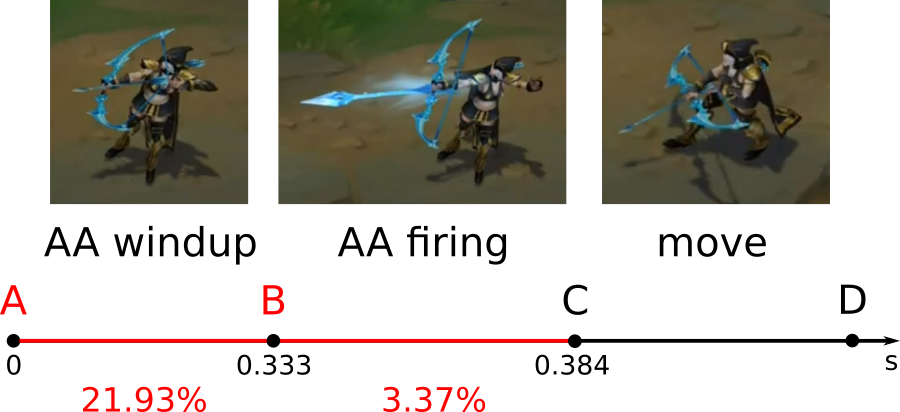
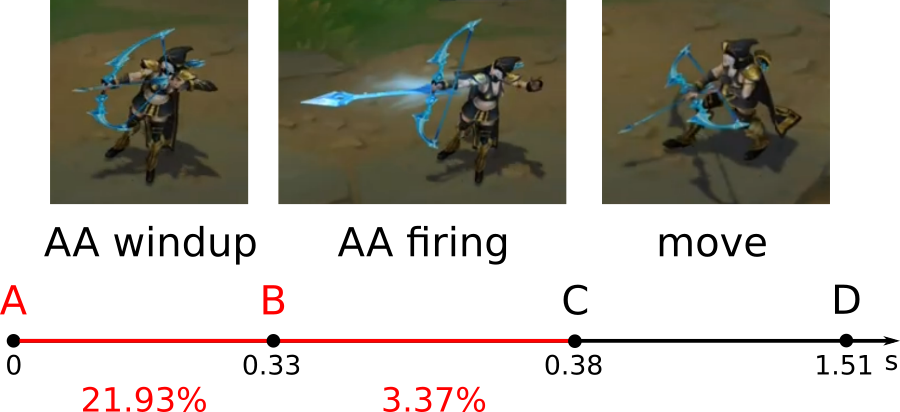
Fix rounding off numbers in the "Micromanagement" chapter

diff --git a/manuscript/Micromanagement/attack-animation.md b/manuscript/Micromanagement/attack-animation.md
@@ -119,14 +119,14 @@
 
 Техника отмены анимации recovery командой движения называется **attack move** (атака и движение). Её хорошо объясняет [видео на канале Skill Capped](https://www.youtube.com/watch?app=desktop&v=-oyxOgtT33U).
 
-Пусть игрок отменяет анимацию атаки командной движения. Рассмотрим, как в этом случае поменяет временная диаграмма анимации. Её демонстрирует иллюстрация 3-2.
+Допустим, что игрок отменяет анимацию атаки командной движения. Рассмотрим, как в этом случае поменяет временная диаграмма анимации чемпиона. Её демонстрирует иллюстрация 3-2.
 
 {caption: "Иллюстрация 3-2. Временная диаграмма attack move", width: "100%"}
 ![Временная диаграмма attack move](images/Micromanagement/ashe-attack-move.png)
 
 Отрезки A-B и B-C остались такими же, как на иллюстрации 3-1. Мы знаем, что чемпион должен проиграть всю анимацию windup и firing. Только после этого он выполнит автоатаку и нанесёт урон противнику.
 
-На иллюстрации 3-2 игрок даёт команду на движение на отрезке B-C диаграммы. Поэтому чемпион двигается сразу после завершения анимации firing в точке C. В нашем примере время движения составляет 1.128 секунды и соответствует отрезку C-D.
+На иллюстрации 3-2 игрок даёт команду на движение на отрезке B-C диаграммы. Поэтому чемпион двигается сразу после завершения анимации firing в точке C. В нашем примере время движения составляет 1.13 секунды и соответствует отрезку C-D.
 
 В точке D заканчивается таймер перезарядки автоатаки. Это означает, что теперь игрок может дать следующую команду на атаку. В этом случае чемпион начнёт новый цикл анимации атаки с фазы windup.
 
@@ -138,7 +138,7 @@
 
 В первом случае отступающий противник получает больше урона. Сравним, к чему приведёт одна команда автоатаки по отступающему противнику и выполнение техники attack move.
 
-Если дать чемпиону **одну команду** на автоатаку, он будет стоять на месте и проигрывать все три фазы анимации атаки. Ashe потратит на это 1.512 секунд. Всё это время противник будет разрывать с ней дистанцию.
+Если дать чемпиону **одну команду** на автоатаку, он будет стоять на месте и проигрывать все три фазы анимации атаки. Ashe потратит на это 1.51 секунд. Всё это время противник будет разрывать с ней дистанцию.
 
 [**Дальность атаки**](https://leagueoflegends.fandom.com/ru/wiki/Дальность_атаки) (attack range) Ashe составляет 600. Поэтому когда она закончит анимацию фазы recovery, возможны два случая:
 
@@ -148,25 +148,25 @@
 
 Допустим, что противник оказался вне дальности атаки Ashe. Пусть его [**скорость передвижения**](https://leagueoflegends.fandom.com/ru/wiki/Скорость_передвижения) (movement speed или MS) не меньше чем у Ashe. В этом случае она не сможет догнать цель и сделать ещё один выстрел. Противник уже отступил на безопасную для него дистанцию.
 
-Если применить **технику attack move**, чемпион будет стоять на месте только во время фаз windup и recovery анимации атаки. Ashe потратит на это 0.384 секунды. Именно столько времени противник будет разрывать с ней дистанцию. Затем игрок даёт команду на движение в сторону противника. Тогда в течении следующих 1.128 секунд Ashe будет двигаться за целью. После этого её таймер перезарядки автоатаки закончится. Игрок даёт команду на атаку и чемпиона делает следующий выстрел.
+Если применить **технику attack move**, чемпион будет стоять на месте только во время фаз windup и recovery анимации атаки. Ashe потратит на это 0.38 секунды. Именно столько времени противник будет разрывать с ней дистанцию. Затем игрок даёт команду на движение в сторону противника. Тогда в течении следующих 1.13 секунды Ashe будет двигаться за целью. После этого её таймер перезарядки автоатаки закончится. Игрок даёт команду на атаку и чемпиона делает следующий выстрел.
 
-В рассмотренной ситуации каждый выстрел обходится Ashe в 0.384 секунды. Это то время, которое она стоит на месте, а противник удаляется от неё. Всё остальное время между атаками Ashe двигается за целью.
+В рассмотренной ситуации каждый выстрел обходится Ashe в 0.38 секунды. Это то время, которое она стоит на месте, а противник удаляется от неё. Всё остальное время между атаками Ashe двигается за целью.
 
 Найдём соотношение времени движения противника в первом и втором случае:
 {line-numbers: false, format: text}
 ```
-1.512 / 0.384 = 3.9375
+1.51 / 0.38 ~ 3.97
 ```
 
-Это означает, что противнику понадобиться почти в 4 раза больше времени, чтобы отступить на безопасную дистанцию с Ashe. Если у него низкий уровень здоровья, то вероятнее всего, он умрёт раньше.
+Это означает, что с техникой attack move противнику понадобится почти в 4 раза больше времени, чтобы отступить на безопасную дистанцию. Если у него низкий уровень здоровья, то он не успеет этого сделать.
 
-Если игрок применяет технику attack move для отступления, он уменьшает время, в течении которого противник наносит урон его чемпиону. Идея этой техники точно такая же, как у attack move для преследования.
+Если игрок применяет технику attack move для отступления, он уменьшает время, в течении которого его чемпион получает урон от противника. Идея этой техники точно такая же, как у attack move для преследования.
 
-Сначала игрок даёт чемпиону команду на атаку цели. Ashe проигрывает анимации windup и firing в течении 0.384 секунды. После этого игрок даёт команду движения от противника. Ashe будет двигаться от него в течении 1.128 секунд. После этого её таймер перезарядки автоатаки закончится. Игрок  даёт команду на атаку и чемпиона делает следующий выстрел.
+Сначала игрок даёт чемпиону команду на атаку цели. Ashe проигрывает анимации windup и firing в течении 0.38 секунды. После этого игрок даёт команду движения от противника. Ashe будет двигаться от него в течении 1.13 секунды. После этого её таймер перезарядки автоатаки закончится. Игрок  даёт команду на атаку и чемпион делает следующий выстрел.
 
-К чему приведёт техника attack move при отступлении? Допустим, что дальность атаки противника составляет всего 175. Это меньше чем у Ashe. Тогда после того как Ashe удалится от противника на 175, он прервёт свою атаку и будет вынужден двигаться за ней. Если скорость передвижения Ashe больше чем у цели, она будет успевать атаковать до того, как противник к ней приблизится. Таким образом он ни разу не сможет выполнить атаку. Эта техника называется **кайтинг** (kiting).
+К чему приведёт техника attack move при отступлении? Допустим, что противник — это чемпион ближнего боя с дальностью атаки 175. У Ashe дальность атаки гораздо больше и равна 600. После того как Ashe удалится от противника на 175, он прервёт свою атаку и будет вынужден двигаться за ней. Пусть скорость передвижения Ashe больше чем у цели. Тогда она будет успевать атаковать и отступать до того, как противник к ней приблизится на дистанцию 175. Таким образом он ни разу не сможет её атаковать. Эта техника называется **кайтинг** (kiting).
 
-Если противник тоже использует технику attack move при отступлении или преследовании, он получит те же преимущества, что и игрок. В этом случае ни одна из сторон не получит выгоды от attack move. Но если одна из сторон не станет применять эту технику, преимущество будет у противника.
+Если противник тоже использует технику attack move при отступлении или преследовании, он получит те же преимущества, что и игрок. В этом случае никто не получит выгоды. Но если игрок не станет применять эту технику, преимущество окажется у противника.
 
 Рассмотрим самый эффективный способ исполнения техники attack move. Для этого надо изменить настройки игры и горячих клавиш.
 
@@ -175,14 +175,14 @@
 {caption: "Иллюстрация 3-3. Настройка 'Player attack move click'", height: "50%"}
 ![Настройка Player attack move click](images/Micromanagement/options-player-attack-move-click.png)
 
-Это горячая клавиша, чтобы дать чемпиону команду на автоатаку. Назначьте для неё клавишу A. Тогда каждый раз, когда вы нажимаете A, чемпион будет атаковать ближайшую к нему цель.
+Это горячая клавиша для команды на автоатаку. Назначьте для неё клавишу A. Тогда каждый раз, когда вы нажимаете A, чемпион будет атаковать ближайшую к нему цель.
 
 Вторая настройка находится во вкладке "Game" и называется "Attack move on cursor". Её демонстрирует иллюстрация 3-4
 
 {caption: "Иллюстрация 3-4. Настройка 'Attack move on cursor'", width: "100%"}
 ![Настройка Attack move on cursor](images/Micromanagement/options-attack-move-on-cursor.png)
 
-Включите эту настройку. Теперь при нажатии клавиши A чемпион будет атаковать не ближайшую к нему цель, а ближайшую к курсору мыши. Без этой настройки вы не сможете выбрать правильную цель в командном сражении.
+Включите эту настройку. Теперь при нажатии клавиши A чемпион будет атаковать цель, ближайшую к курсору мыши. Без этой настройки вы не сможете выбрать правильную цель в командном сражении.
 
 Теперь рассмотрим, как выполнять технику attack move с новыми настройками. Для этого повторяйте следующие шаги:
 
@@ -198,7 +198,7 @@
 
 При выполнении техники attack move важно не совершать следующие ошибки:
 
-1. Давать команду на движение в фазе анимации windup. Тогда вы отмените автоатаку чемпиона и он не нанесёт урон противнику.
+1. Давать команду на движение в фазу анимации windup. Тогда вы отмените автоатаку чемпиона и он не нанесёт урон противнику.
 
 2. Позволять чемпиону двигаться дольше, чем идёт его таймер перезарядки автоатаки. В этом случае вы не реализуете его скорость атаки и уменьшаете DPS.
 
@@ -208,16 +208,16 @@
 
 ### 3.1.4 Атака и применение умения
 
-Фазу recovery анимации автоатаки можно отменять не только командой движения. Вместо движения можно использовать одно из умений чемпиона. Тогда временная диаграмма будет выглядеть как на иллюстрации 3-5.
+Фазу recovery анимации автоатаки можно отменить не только командой движения. Вместо движения можно использовать одно из умений чемпиона. В этом случае временная диаграмма будет выглядеть как на иллюстрации 3-5.
 
 {caption: "Иллюстрация 3-5. Временная диаграмма отмены анимации атаки умением", width: "100%"}
 ![Временная диаграмма отмены анимации атаки умением](images/Micromanagement/ashe-attack-ability.png)
 
 Отрезки A-B и B-C остались такими же, как на иллюстрациях 3-1 и 3-2. Это означает, что чемпион проигрывает фазы анимации windup и firing как обычно. После этого Ashe выпускает стрелу по противнику.
 
-На иллюстрации 3-5 игрок даёт команду Ashe применить умение W на отрезке B-C диаграммы. Она начинает анимацию умения сразу после завершения анимации firing в точке C. Таким образом игрок отменяет анимацию recovery автоатаки, которая длилась бы 1.128 секунд.
+На иллюстрации 3-5 игрок даёт команду Ashe применить умение W на отрезке B-C диаграммы. Она начинает анимацию умения сразу после завершения анимации AA firing в точке C. Таким образом игрок отменяет анимацию recovery автоатаки, которая длилась бы 1.13 секунды.
 
-Технику отмены анимации атаки умением применяют во время сражения. В зависимости от ситуации игрок должен выбрать, каким действием ему отменять анимацию: движением или умением. Умение выгодно применять, когда чемпион занял подходящую позицию и ему больше не нужно двигаться. Эта техника значительно увеличивает DPS чемпиона по неподвижной цели. Если цель двигается или все атакующие умения на перезарядке, обычно выгоднее применять attack move.
+Технику отмены анимации атаки умением применяют во время сражения. В зависимости от ситуации игрок должен выбрать, каким действием ему отменять анимацию: движением или умением. Умение выгодно применять, когда чемпион занял подходящую позицию и ему больше не нужно двигаться. Эта техника значительно увеличивает DPS чемпиона по неподвижной цели. Если цель двигается или все атакующие умения на перезарядке обычно выгоднее применять attack move.
 
 Чтобы эффективно применять технику отмены анимации атаки умениям, надо настроить все умения чемпиона на "Quick Cast". Эта настройка находится на вкладке "HOTKEYS". Её демонстрирует иллюстрация 3-6.
 
@@ -226,7 +226,7 @@
 
 Откройте вкладку "HOTKEYS" в настройках и нажмите кнопку "Quick Cast All". После этого все умения чемпиона будут применяться как только вы отпускаете кнопку Q, W, E или R.
 
-Сравним алгоритм применения умений с опцией "Quick Cast" и без неё. Для определённости рассмотрим умение W Ashe. Без опции "Quick Cast" алгоритм его применения выглядит так:
+Сравним алгоритм применения умений с опцией "Quick Cast" и без неё. Рассмотрим умение W Ashe. Чтобы его применить без опции "Quick Cast", надо выполнить следующие шаги:
 
 1. Нажать кнопку W.
 
@@ -236,7 +236,7 @@
 
 4. Нажать кнопку W второй раз, чтобы Ashe выпустила залп.
 
-С опцией "Quick Cast" алгоритм станет таким:
+С опцией "Quick Cast" шаги станут такими:
 
 1. Нажать кнопку W и не отпускать.
 
@@ -246,7 +246,7 @@
 
 4. Отпустить кнопку W, чтобы Ashe выпустила залп.
 
-Опытные игроки сначала наводят курсор мыши на желаемую область, а потом просто нажимают кнопку W. Такая техника значительно ускоряет применение всех умений чемпиона. Но чтобы выполнять её эффективно, надо точно помнить область действия всех умений вашего чемпиона.
+Опытные игроки сначала наводят курсор мыши на желаемую область, а потом просто нажимают кнопку W. Такой приём ускоряет использование умений. Но чтобы выполнить его эффективно, надо точно помнить область действия каждого умения чемпиона.
 
 I> Умения с [**зарядкой**](https://leagueoflegends.fandom.com/ru/wiki/Подготовка) (charging), во время которой чемпион может двигаться, не надо настраивать на Quick Cast. Пока идёт зарядка, чемпион может сменить свою позицию с помощь заклинания призывателя [скачок](https://leagueoflegends.fandom.com/ru/wiki/Скачок_(заклинание_призывателя)) (flash). Использовать скачок неудобно, пока зажата клавиша умения с Quick Cast. Намного легче нажать кнопку умения один раз, затем использовать скачок и потом нажать кнопку умения второй раз. Примеры таких умений: Vi — Q, Viego — W.
 
